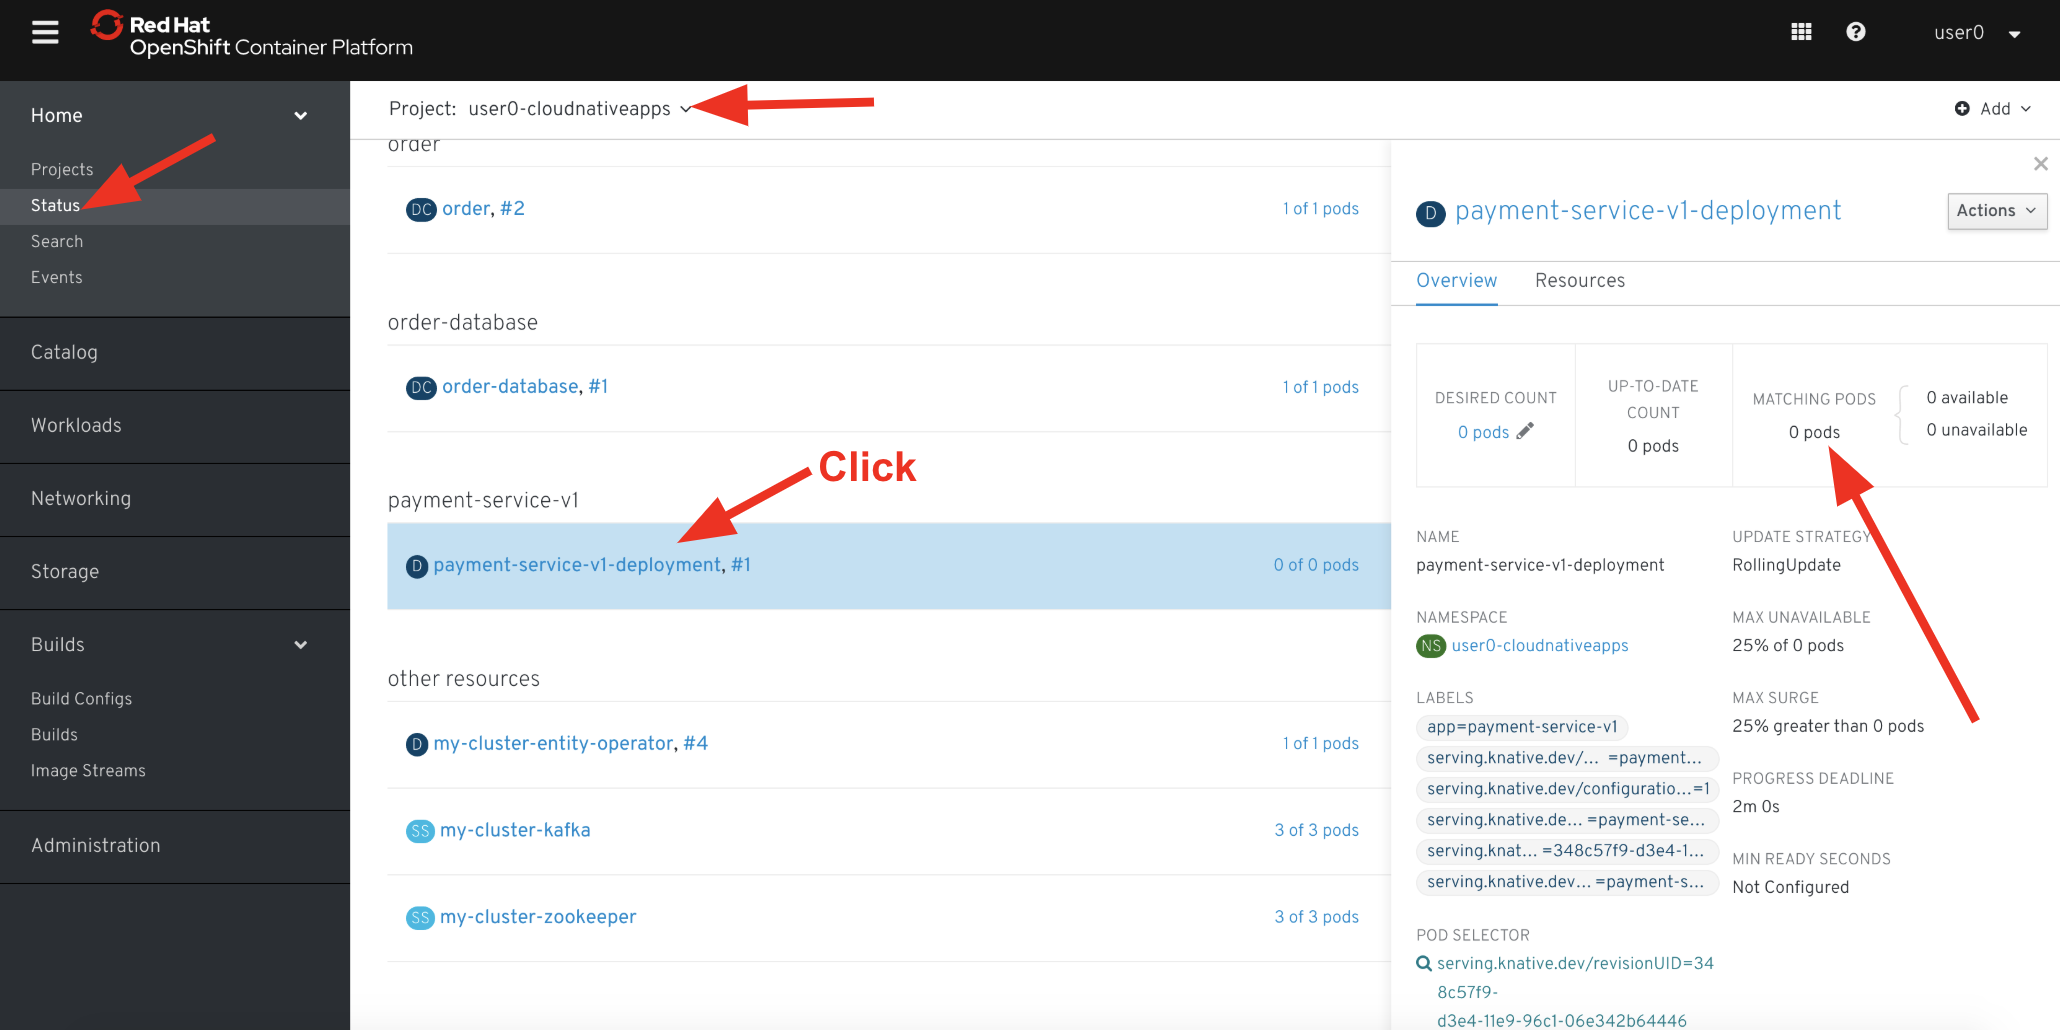
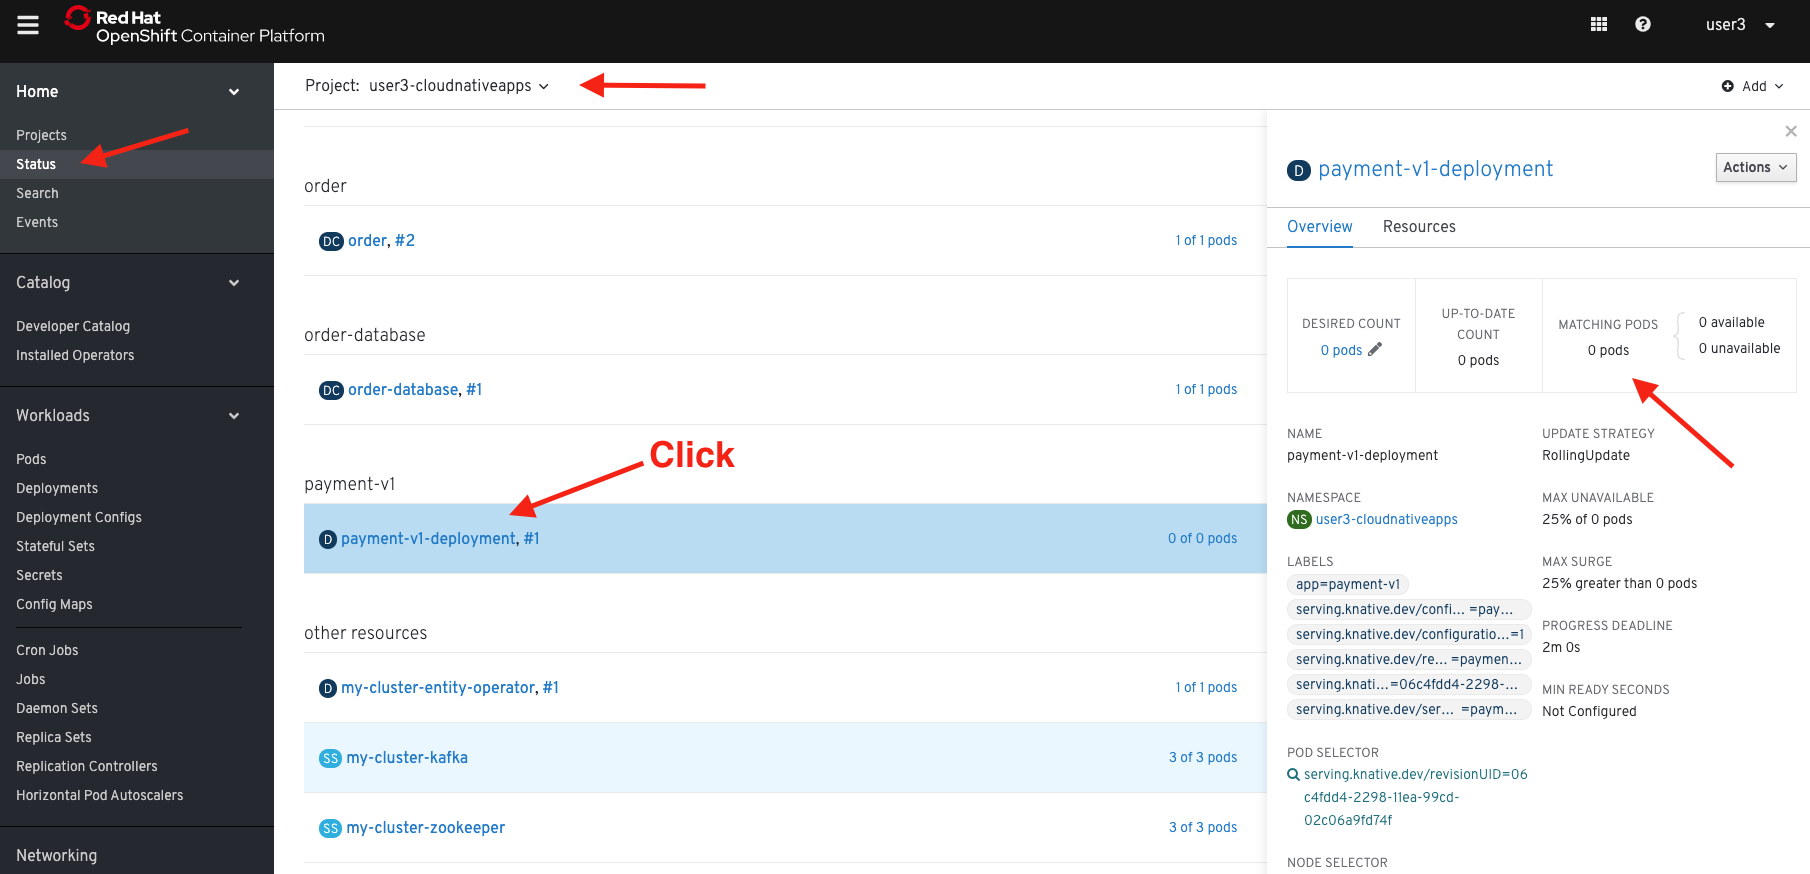
Some updates
1. Couple of typos
1. Updated screenshot that was showing former name of `payment-service-v1-deployment` instead of `payment-v1-deployment`

diff --git a/evolve-serverless-services.md b/evolve-serverless-services.md
@@ -149,7 +149,7 @@ This shows that our process is taking around `50 MB` of memory ([Resident Set Si
 
 > NOTE: The RSS and memory usage of any app, including Quarkus, will vary depending your specific environment, and will rise as the application experiences load.
 
-Make sure the app works. In a new CdeReady Workspaces Terminal run:
+Make sure the app works. In a new CodeReady Workspaces Terminal run:
 
 `curl -i http://localhost:8080/hello; echo`
 
@@ -254,13 +254,15 @@ Or you can run the commands directly:
 
 This will execute `mvn clean package -Pnative` behind the scenes. The `-Pnative` argument selects the native maven profile which invokes the Graal compiler.
 
+> The native compilation could take several minutes, so please be patient!
+
 We've deleted our old build configuration that took a JAR file. We need a new build configuration that can take our new native compiled Quarkus app. Create a new build config with this command:
 
 `oc new-build quay.io/quarkus/ubi-quarkus-native-binary-s2i:19.2.0 --binary --name=payment -l app=payment`
 
 You should get a `--> Success message` at the end.
 
- * Mext, start and watch the build, which will take about 3-4 minutes to complete:
+ * Next, start and watch the build, which will take about 3-4 minutes to complete:
 
 `oc start-build payment --from-file target/*-runner --follow`
 
@@ -296,9 +298,9 @@ The service can then be deployed using the following command via CodeReady Works
 
 `oc apply -f /projects/cloud-native-workshop-v2m4-labs/payment-service/knative/knative-serving-service.yaml`
 
-After successful creation of the service we should see a Kubernetes Deployment named similar to `payment-service-v1-deployment` available.
+After successful creation of the service we should see a Kubernetes Deployment named similar to `payment-v1-deployment` available.
 
-Go to _Home > Status_ on the left menu and click on **payment-service-v1-deployment**. You will confirm 1 pod is _available_.
+Go to _Home > Status_ on the left menu and click on **payment-v1-deployment**. You will confirm 1 pod is _available_.
 
 ![serverless]({% image_path payment-serving-deployment.png %})
 
@@ -316,7 +318,7 @@ As default, Knative will automatically scale services down to zero instances whe
 
 ![serverless]({% image_path scale-to-zero-grace-period.png %})
 
-In the meantime, it probably took at least 30 seconds so select your `userXX-cloudnativeapps` project using the drop-down at the top and then go back to _Home > Status_ on the left menu and click on **payment-service-v1-deployment**. You will see 0 pods are available:
+In the meantime, it probably took at least 30 seconds so select your `userXX-cloudnativeapps` project using the drop-down at the top and then go back to _Home > Status_ on the left menu and click on **payment-v1-deployment**. You will see 0 pods are available:
 
 ![serverless]({% image_path payment-serving-down-to-zero.png %})
 
